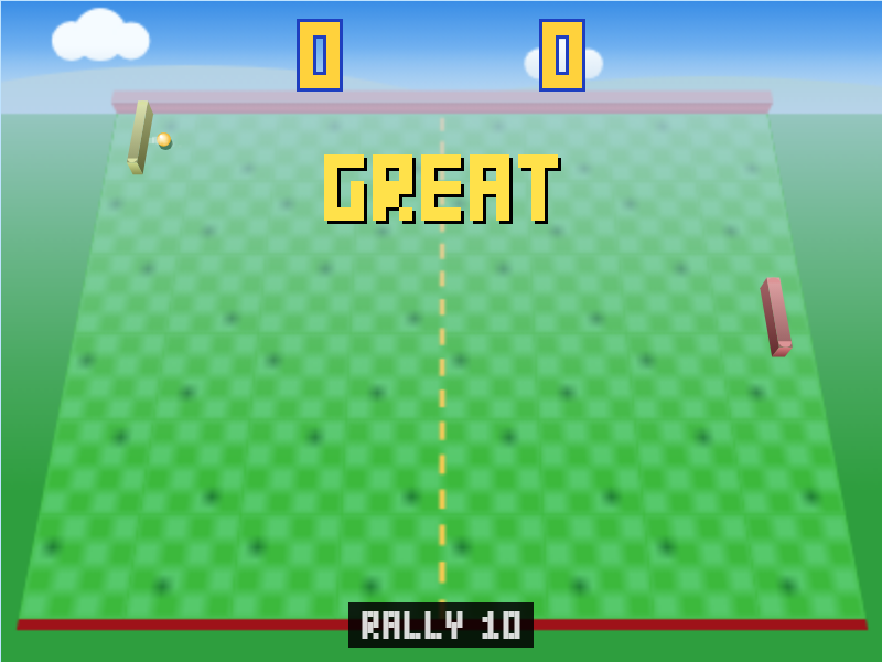
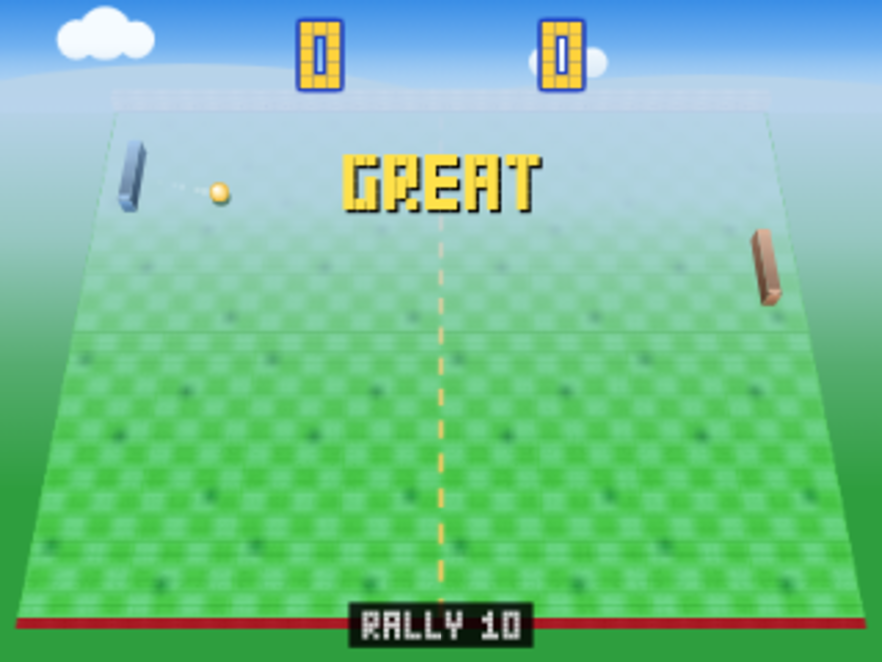
item 1205: the loop's feel hook looks for the layer every frame, so taking it out leaves the game running; feel playtest on the merged tree 6/6 (N64 27.6 ms with the layer vs 28.6 without, Xbox 360 66.5 vs 65.0: the era's own cost in headless Chrome); the three rally frames re-taken through the disp

diff --git a/src/main.js b/src/main.js
@@ -67,7 +67,7 @@
     var drawField = PongRender.drawEraFrame || PongRender.draw;
     // The real game's frame goes through game feel (src/feel.js): shake, squash,
     // trail, flash and the rally counter, drawn into the machine's own picture.
-    var drawGame = root.PongFeel ? function (c, g) { root.PongFeel.draw(c, g, drawField); } : drawField;
+    function drawGame(c, g) { if (root.PongFeel) root.PongFeel.draw(c, g, drawField); else drawField(c, g); }
 
     // The display (src/display.js): each era drawn at its own machine's
     // resolution, then scaled up onto this canvas. ?display=off skips it and

diff --git a/docs/WORKER-BOOTSTRAP.md b/docs/WORKER-BOOTSTRAP.md
@@ -303,9 +303,13 @@ his emulator — never touch either.**
   SNES, Dreamcast and PS2 trails, the N64 rumble). An era card that gives its era a new trail or
   shake adds its rung there rather than drawing a second one. Hit-stop and match-point slow motion
   work by handing the rules less time, never inside the serve pause.
-- **The Xbox 360 era runs at about 31-33 ms a frame in the playtest's headless, software-drawn
-  Chrome, with or without the feel layer** (item 1205 measured 31.3 ms with it, 33.1 ms without,
-  on one rally). A frame check on that era has to compare against the era itself, not 16.7 ms.
+- **The 3D eras run slower than 16.7 ms a frame in the playtest's headless, software-drawn Chrome,
+  with or without the feel layer.** Item 1205 measured one rally each: before the display layer
+  and the 3D textures landed, the Xbox 360 at 31.3 ms with the layer and 33.1 ms without; on master
+  9cc6910 merged in, the Nintendo 64 at 27.6 against 28.6 ms and the Xbox 360 at 66.5 against 65.0
+  ms. A frame check on those eras has to compare against the era itself, not 16.7 ms -- and a
+  switch that takes a layer out must leave the loop running (item 1205's first A/B threw every
+  frame, killed the game loop and timed an idle page at a perfect 16.7 ms).
 - **Two playtests on one `--port` share one Chrome.** The harness does not refuse a port already
   listening, so a second run attaches to the first run's page and drives it (item 1181 did, to
   item 1205's, around 22:25 EDT on 2026-09-10): odd FAILs such as "Inspected target navigated or
